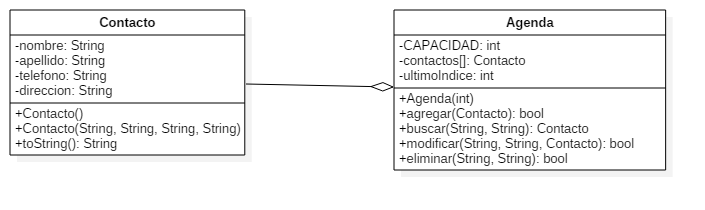
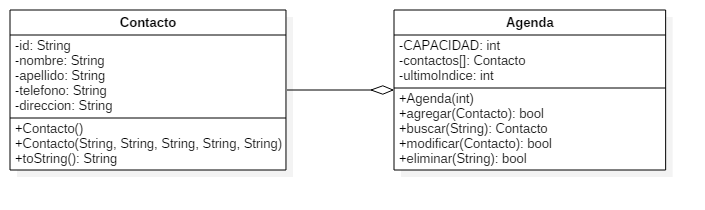
Actualizacion de id en Contacto y diagrama de clases

diff --git a/Agenda/src/logica/Contacto.java b/Agenda/src/logica/Contacto.java
@@ -10,25 +10,32 @@ package logica;
  * @author usuario
  */
 public class Contacto {
+    private String id;
     private String nombre;
     private String apellido;
     private String telefono;
     private String direccion;
     
     public Contacto() {
+        this.id = "";
         this.nombre = "";
         this.apellido = "";
         this.telefono = "";
         this.direccion = "";
     }
 
-    public Contacto(String nombre, String apellido, String telefono, String direccion) {
+    public Contacto(String id, String nombre, String apellido, String telefono, String direccion) {
+        this.id = id;
         this.nombre = nombre;
         this.apellido = apellido;
         this.telefono = telefono;
         this.direccion = direccion;
     }
 
+    public String getId() {
+        return id;
+    }
+    
     public String getNombre() {
         return nombre;
     }
@@ -44,7 +51,11 @@ public class Contacto {
     public String getDireccion() {
         return direccion;
     }
-
+    
+    public void setId(String id) {
+        this.id = id;
+    }
+    
     public void setNombre(String nombre) {
         this.nombre = nombre;
     }
@@ -65,6 +76,7 @@ public class Contacto {
     public String toString() {
         StringBuilder informacionContacto = new StringBuilder();
         
+        informacionContacto.append("Identificacion: ").append(this.id).append('\n');
         informacionContacto.append("Nombre: ").append(this.nombre).append('\n');
         informacionContacto.append("Apellido: ").append(this.apellido).append('\n');
         informacionContacto.append("Telefono: ").append(this.telefono).append('\n');
